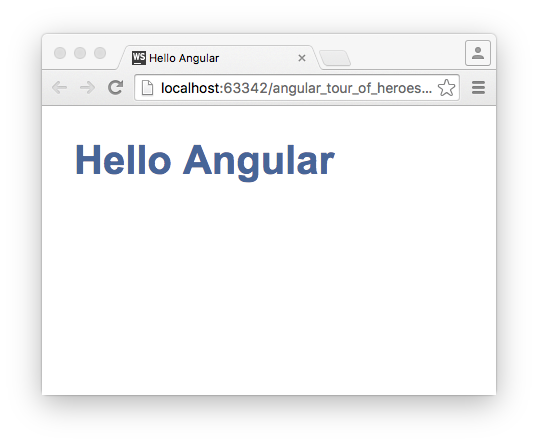
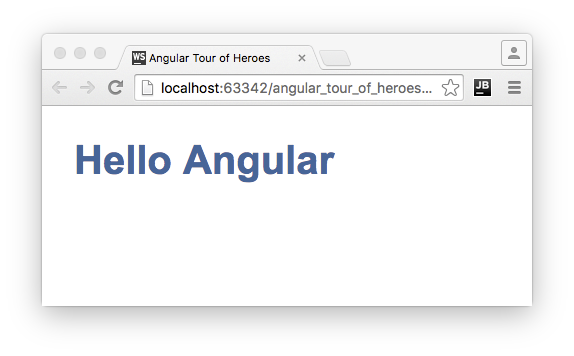
[ng] app setup customization, and toh-0 live example tweak (#720)
* [ng] app setup customization and toh-0 live example tweak

- Setup: add minor project customization steps.
- Toh-0: clarify that the live example is quickstart

Supersedes #717

* Change quickstart project name to the more generic `angular_app`

* Updated image and other tweaks to the start-app page

Changed region(s): [[0.0595, 0.0618, 0.9517, 0.8961]]

diff --git a/gulp/get-stagehand-proj.js b/gulp/get-stagehand-proj.js
@@ -26,7 +26,7 @@ module.exports = function (gulp, plugins, config) {
       `${baseDir}/lib/app_component.dart`
     ], { base: baseDir })
       // pubspec.yaml
-      .pipe(replace(/^name: angular_quickstart/, '# #docregion\n$&'))
+      .pipe(replace(/^name: angular_app/, '# #docregion\n$&'))
       .pipe(replace(/(^description: )A simple AngularDart app/m, '$1QuickStart'))
       .pipe(replace(/^#(author|homepage).*\n/gm, ''))
       // index.html

diff --git a/gulpfile.js b/gulpfile.js
@@ -57,7 +57,7 @@ const _dgeniLogLevel = argv.dgeniLog || (isSilent ? 'error' : 'warn');
 
 const ngDocSrc = path.join('src', 'angular');
 const fragsPath = path.join(LOCAL_TMP, '_fragments');
-const qsProjName = 'angular_quickstart';
+const qsProjName = 'angular_app';
 const config = {
   _dgeniLogLevel: _dgeniLogLevel,
   angulario: angulario,

diff --git a/examples/ng/doc/quickstart/test/app_test.dart b/examples/ng/doc/quickstart/test/app_test.dart
@@ -7,7 +7,7 @@ import 'package:angular2/angular2.dart';
 import 'package:angular_test/angular_test.dart';
 import 'package:test/test.dart';
 
-import 'package:angular_quickstart/app_component.dart';
+import 'package:angular_app/app_component.dart';
 
 // #docregion initial
 @AngularEntrypoint()

diff --git a/examples/ng/doc/quickstart/web/main.dart b/examples/ng/doc/quickstart/web/main.dart
@@ -4,7 +4,7 @@
 // #docregion
 import 'package:angular2/platform/browser.dart';
 
-import 'package:angular_quickstart/app_component.dart';
+import 'package:angular_app/app_component.dart';
 
 void main() {
   bootstrap(AppComponent);

diff --git a/src/angular/tutorial/toh-pt0.md b/src/angular/tutorial/toh-pt0.md
@@ -1,7 +1,7 @@
 ---
 layout: angular
 title: The Starter App
-description: We look at a simple Angular app
+description: A bare-bones Angular app
 prevpage:
   title: "Tutorial: Tour of Heroes"
   url: /angular/tutorial
@@ -10,9 +10,8 @@ nextpage:
   url: /angular/tutorial/toh-pt1
 ---
 <?code-excerpt path-base="toh-0"?>
-This tutorial starts with a bare-bones Angular app.
-Run the <live-example name="quickstart">live example</live-example>
-to see the app.
+This tutorial starts with a bare-bones Angular app,
+derived from the <live-example name="quickstart">quickstart example</live-example>.
 
 ## Create the app
 

diff --git a/src/playground/index.md b/src/playground/index.md
@@ -28,8 +28,8 @@ Quickstart pubspec w/ title:
 Quickstart pubspec w/ title:
 <?code-excerpt "pubspec.yaml" title?>
 ```
-  name: angular_quickstart
-  description: QuickStart
+  name: angular_app
+  description: A web app that uses AngularDart
   version: 0.0.1
 
   environment:
